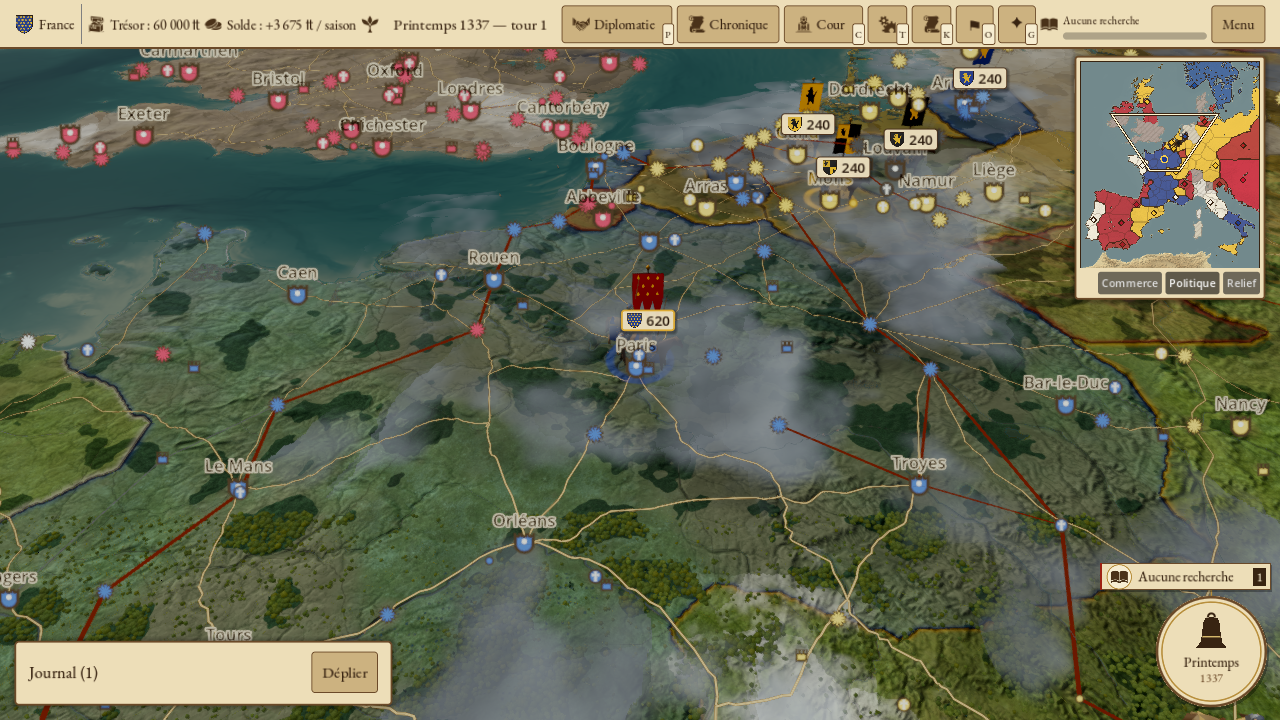
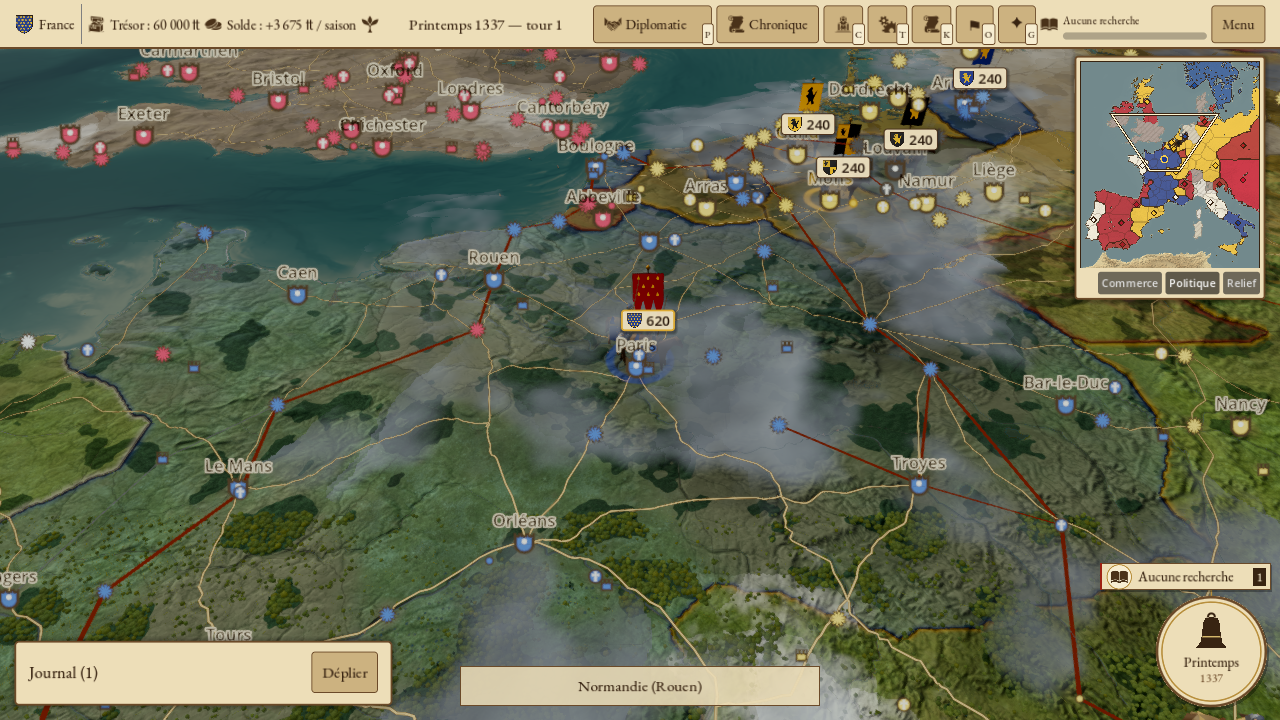
fix(ui): pad labelled top-bar buttons so the key badge no longer overlaps the label

diff --git a/docs/wip/ux2-premiers-pas.md b/docs/wip/ux2-premiers-pas.md
@@ -37,6 +37,9 @@ Audit : `docs/audit/a3-ui.md` (C9, C13, U1, U2, lot U15). Captures : `docs/audit
 ## Limites
 - La touche L reste à l'encyclopédie (déjà liée) : la reprise du guide passe par le conseil,
   F1 ou le menu, pas par L.
-- À 1600 px, « Agents » reste en icône seule (la place manque de peu).
+- Suite (cartouches) : les boutons libellés portant une touche ont une marge droite = largeur du
+  cartouche + 4 px (`MapUI._pad_for_keycap`), comptée par `fit_top_bar`. Plus de lettre mordue ;
+  en contrepartie, à 1600 px, « Objectifs » et « Agents » passent en icône seule ; à 1280 px,
+  Diplomatie et Chronique gardent leur libellé.
 - Le conseil « armée sans ordre » considère toute armée à pleins points de mouvement sans
   chemin ; une armée laissée volontairement en garnison le déclenche (croix pour la saison).
